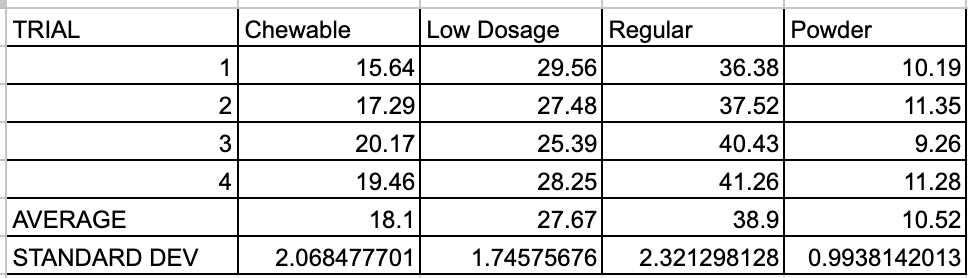
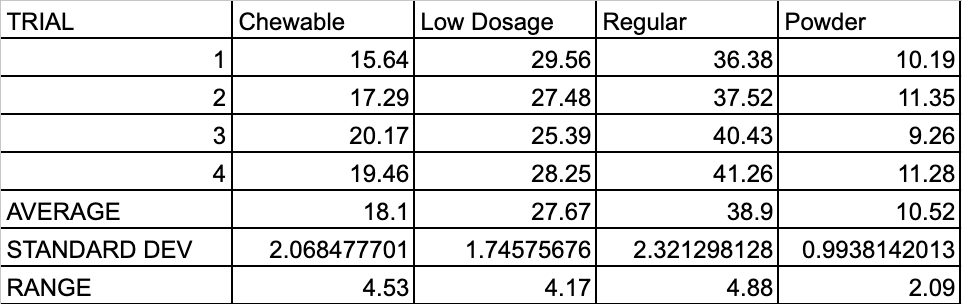
added more things so we dont fail

Changed region(s): [[0.0, 0.0, 1.0, 1.0]]

diff --git a/other/chem/index.html b/other/chem/index.html
@@ -84,7 +84,7 @@
         <p>Powdered Aspirin dissolves the fastest. You can move on to the next page.</p>
         <div class="flex-buttons">
           <button onclick="show('Page4');" class="standard-button back-button">Back</button>
-          <button onclick="show('Page5');" class="standard-button">Continue</button>
+          <button onclick="show('PageStraw1');" class="standard-button">Continue</button>
         </div>
       </div>
 
@@ -94,9 +94,55 @@
         <p>Powdered Aspirin dissolves the fastest. You can move on to the next page.</p>
         <div class="flex-buttons">
           <button onclick="show('Page4');" class="standard-button back-button">Back</button>
+          <button onclick="show('PageStraw1');" class="standard-button">Continue</button>
+        </div>
+      </div>
+
+      <div id="PageStraw1" class="center-main-child page" style="display:none;">
+        <h1>Precision Comparison</h1>
+        <p> the powder experiment was more precise because it had a lesser standard deviation. <br> The chewable
+          experiment is less accurate but we are still confident that the test correctly measured the dissolve ability
+          well.
+        </p>
+
+        <div class="center-things">
+          <div class="flex-2image" style="margin-bottom: 10px;">
+            <img class="litebokz" src="images/c1.png" alt="">
+            <img class="litebokz" src="images/c2.png" alt="">
+          </div>
+        </div>
+
+
+        <div class="flex-buttons">
+          <button onclick="show('Page4');" class="standard-button back-button">Back</button>
+          <button onclick="show('PageStraw2');" class="standard-button">Continue</button>
+        </div>
+      </div>
+
+      <div id="PageStraw2" class="center-main-child page" style="display:none;">
+        <h1>Can we trust our data?</h1>
+        <p>Yes according to our experiments we can trust our data. It is precise enough to get correct results and there
+          is no overlap in-between the numbers</p>
+        <p>
+          One possible random source of variation:
+          An issue could be with the timers. Our timing may have been incorrect as we could've started the timer late or
+          ended the timer too early.
+          Effect on data:
+          our timers.
+          This can skew up our data times. Our times may take shorter than aspirin actually takes to dissolve because of
+          One possible systematic source of error:
+          It's difficult to sell when aspirin (especially powdered aspirin) is fully dissolved.
+          Effect on data:
+          This can skew our dissolving times as well. The aspirin may have needed more time to dissolve, and we just
+          couldn't really tell.
+        </p>
+        <div class="flex-buttons">
+          <button onclick="show('PageStraw1');" class="standard-button back-button"></button>
           <button onclick="show('Page5');" class="standard-button">Continue</button>
         </div>
       </div>
+
+
 
 
       <div id="Page5" class="center-main-child page" style="display:none;">
@@ -111,7 +157,7 @@
         </div>
 
         <div class="flex-buttons">
-          <button onclick="show('Page4');" class="standard-button back-button">Back</button>
+          <button onclick="show('PageStraw1');" class="standard-button back-button">Back</button>
           <button onclick="show('Page6');" class="standard-button">Continue</button>
         </div>
       </div>
